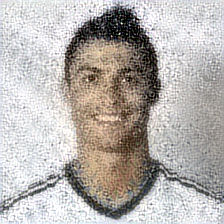
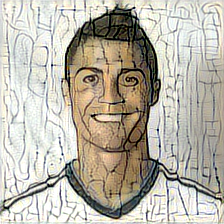
Hiển thị ảnh kết quả khi chạy xong

diff --git a/neural_style_transfer/custom_style.py b/neural_style_transfer/custom_style.py
@@ -6,14 +6,16 @@ import numpy as np
 from scipy.optimize import fmin_l_bfgs_b
 import time
 import tensorflow as tf
+import cv2
 
 
 tf.compat.v1.disable_eager_execution()
-# Evaluator returns the loss and the gradient in two separate functions, but
-# the calculation of the two variables
-# are dependent. This reduces the computation time, since otherwise it would
-# be calculated separately.
+
+
 class Evaluator(object):
+    # Evaluator returns the loss and the gradient in two separate functions,
+    # but the calculation of the two variables are dependent. This reduces
+    # the computation time, since otherwise it would be calculated separately.
 
     def __init__(self):
         self.loss_value = None
@@ -33,12 +35,14 @@ class Evaluator(object):
         self.grad_values = None
         return grad_values
 
+
 def preprocess_image(image_path):
     img = load_img(image_path, target_size=(img_nrows, img_ncols))
     img = img_to_array(img)
     img = np.expand_dims(img, axis=0)
     img = vgg19.preprocess_input(img)
     return img
+
 
 def deprocess_image(x):
     x = x.reshape((img_nrows, img_ncols, 3))
@@ -53,14 +57,17 @@ def deprocess_image(x):
     x = np.clip(x, 0, 255).astype('uint8')
     return x
 
+
 def content_loss(base, combination):
     return K.sum(K.square(combination - base))
+
 
 def gram_matrix(x):
     features = K.batch_flatten(
         K.permute_dimensions(x, (2, 0, 1)))  # channel first
     gram = K.dot(features, K.transpose(features))
     return gram
+
 
 def style_loss(style, combination):
     S = gram_matrix(style)
@@ -80,12 +87,11 @@ def total_variation_loss(x):
     return K.sum(K.pow(a + b, 1.25))
 
 
-# Evaluate the loss and the gradients respect to the generated image. It is
-# called in the Evaluator, necessary to
-# compute the gradients and the loss as two different functions (limitation of
-# the L-BFGS algorithm) without
-# excessive losses in performance
 def eval_loss_and_grads(x):
+    # Evaluate the loss and the gradients respect to the generated image. It
+    # is called in the Evaluator, necessary to compute the gradients and the
+    # loss as two different functions (limitation of the L-BFGS algorithm)
+    # without excessive losses in performance
     x = x.reshape((1, img_nrows, img_ncols, 3))
     outs = f_outputs([x])
     loss_value = outs[0]
@@ -98,12 +104,12 @@ def eval_loss_and_grads(x):
 
 img_nrows = 224
 img_ncols = 224
-base_image_path = 'origin_2.jpg'
-style_reference_image_path = '../pencil-effect.jpg'
+base_image_path = 'images/origin_2.jpg'
+style_reference_image_path = 'styles/style_1.jpg'
 content_weight = 0.025
 style_weight = 1
 total_variation_weight = 1
-iterations = 100
+iterations = 10
 
 
 # get tensor representations of our images
@@ -127,8 +133,9 @@ loss = K.variable(0.0)
 # contribution of content_loss
 feature_layers_content = outputs_dict['block5_conv2']
 combination_features = feature_layers_content[2, :, :, :]
-loss = loss + content_weight * content_loss(feature_layers_content,
-                                      combination_features)
+loss = loss + content_weight * content_loss(
+    feature_layers_content,
+    combination_features)
 
 # contribution of style_loss
 feature_layers = ['block1_conv1', 'block2_conv1',
@@ -172,4 +179,9 @@ for i in range(iterations):
     end_time = time.time()
     print('Image saved as', fname)
     print('Iteration %d completed in %ds' % (i, end_time - start_time))
+    print('Show image')
+    show_img = cv2.imread(fname)
 
+cv2.imshow('Result', show_img)
+cv2.waitKey(0)
+cv2.destroyAllWindows()

diff --git a/neural_style_transfer/show_img.py b/neural_style_transfer/show_img.py
@@ -1,0 +1,8 @@
+import cv2
+
+img = cv2.imread('./result/res_at_iteration_0.png')
+
+cv2.imshow('sample image', img)
+
+cv2.waitKey(0)
+cv2.destroyAllWindows()
